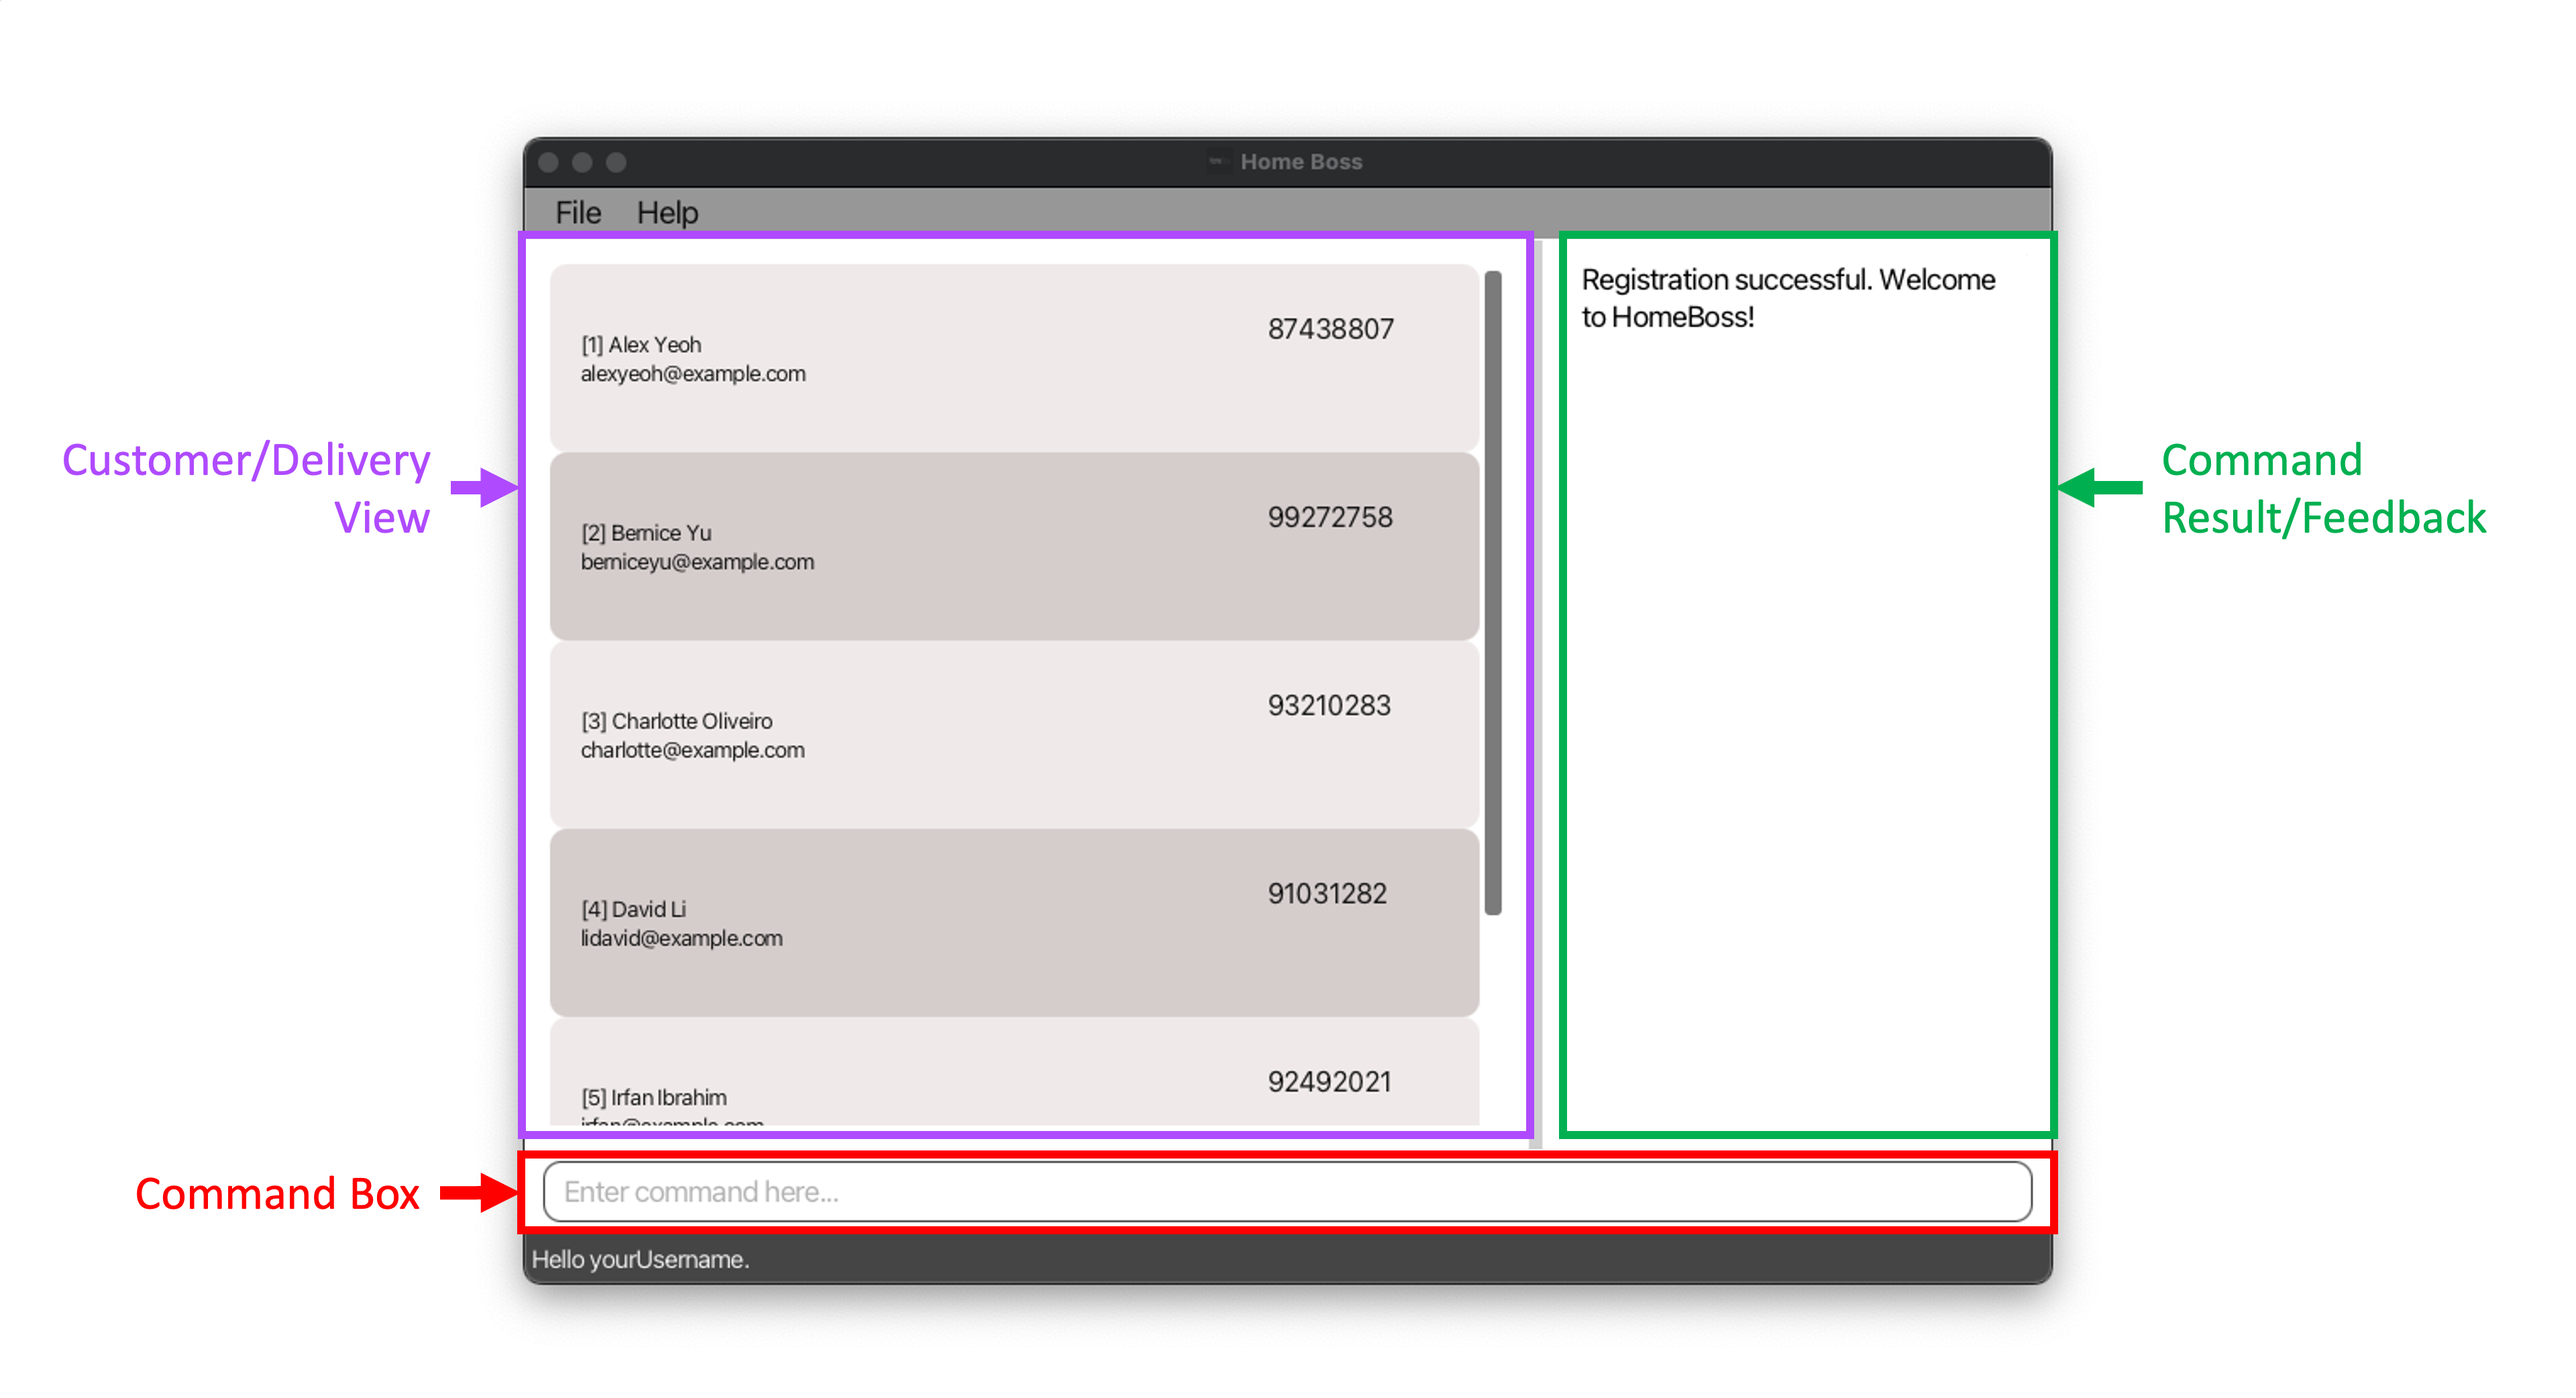
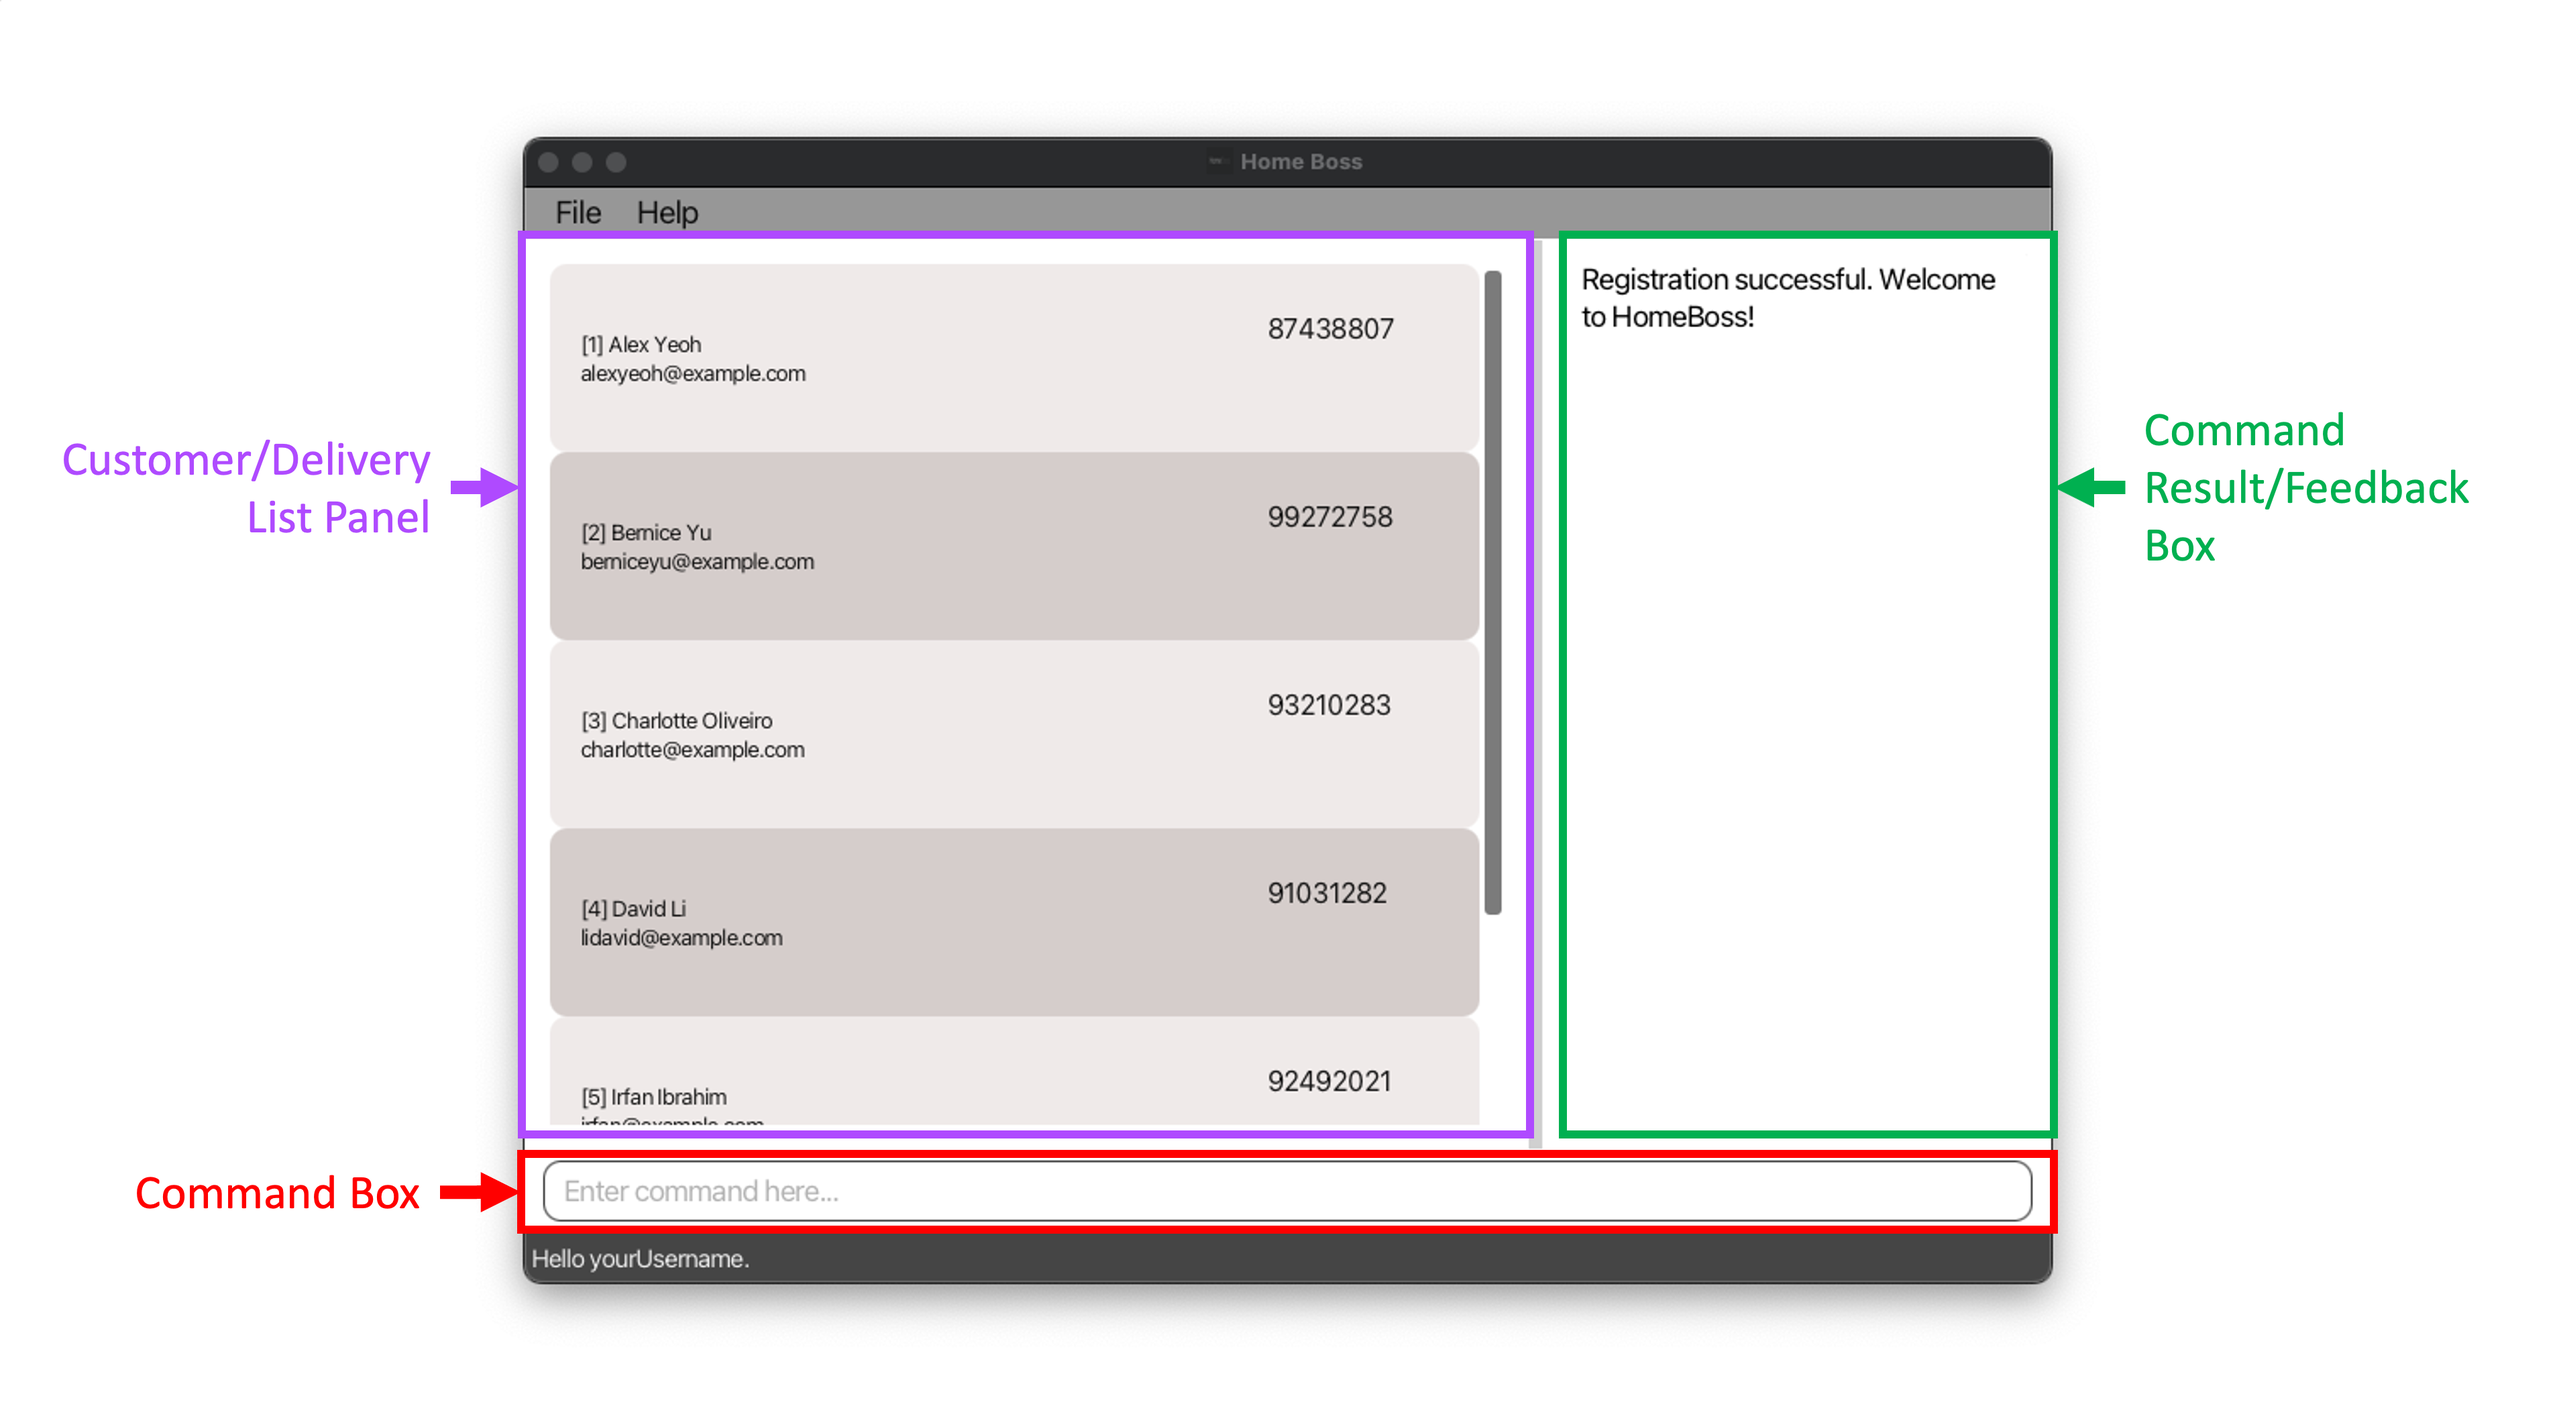
Rename of Customer Delivery List Box to Customer Delivery List Panel

diff --git a/docs/UserGuide.md b/docs/UserGuide.md
@@ -113,7 +113,7 @@ You can use the scroll bar on the right to scroll through a long result or feedb
     </tr>
 </table>
 
-The Customer/Delivery List Box is where you will be able to find the customers and deliveries that you have added to
+The Customer/Delivery List Panel is where you will be able to find the customers and deliveries that you have added to
 HomeBoss. You can use the scroll bar on the right to scroll through your customers or deliveries.
 
 <box type="note" background-color="#dff0d8" border-color="#d6e9c6" icon=":information_source:">
